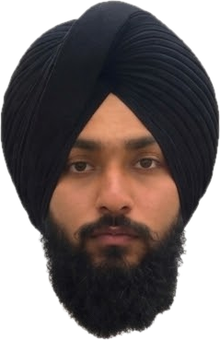
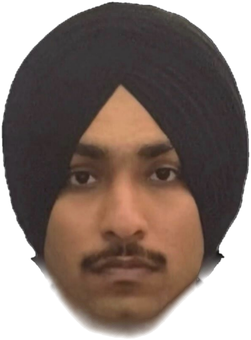
New face for friend 8, and new faces show on the first open
- Replace faces/enemy8.png with the new cut-out (black background removed,
  soft chin kept)
- On startup the game checks for a newer version and lets it take over
  before loading faces and voices, so changed pictures show on the first
  open instead of the second
- Version 3 (cache love-run-game-v3)

Claude-Session: https://claude.ai/code/session_01633TpBsW2xiVutsYYgJTvZ

diff --git a/docs/index.html b/docs/index.html
@@ -196,7 +196,7 @@ const MAX_DPR = 2;
 
 // Shown small in the top-right corner of the title screen. Raise it by 1 with every update,
 // together with CACHE in sw.js ('love-run-game-v' + the same number).
-const GAME_VERSION = 2;
+const GAME_VERSION = 3;
 
 /* ============================================================================
    2) LEVELS
@@ -670,15 +670,19 @@ function waitForServiceWorker(timeout) {
     const fin = (v) => { if (!done) { done = true; resolve(v); } };
     navigator.serviceWorker.addEventListener('controllerchange', () => fin(true));
     navigator.serviceWorker.register('sw.js', { updateViaCache: 'none' })
-      .then(() => { if (navigator.serviceWorker.controller) fin(true); })
+      .then(async (reg) => {
+        if (!navigator.serviceWorker.controller) return;       // very first visit: wait until it takes over
+        // If a new version was published since last time, let it take over first, so new faces and voices show right away.
+        try { await reg.update(); } catch (e) { /* offline */ }
+        if (!reg.installing && !reg.waiting) fin(true);         // otherwise controllerchange finishes this
+      })
       .catch(() => fin(false));
-    if (navigator.serviceWorker.controller) fin(true);
     setTimeout(() => fin(false), timeout);
   });
 }
 async function loadAllFaces() {
   // Wait (briefly) for the offline cache so missing optional photos don't spam 404s.
-  await waitForServiceWorker(2500);
+  await waitForServiceWorker(6000);
   const names = ['hero', 'me'];
   for (let i = 1; i <= MAX_ENEMY_FACES; i++) names.push('enemy' + i);
   names.push('dragon');
@@ -3084,11 +3088,11 @@ document.addEventListener('visibilitychange', () => { if (document.hidden) { cle
 
 // Updates: every time the app comes back to the screen, ask for a newer version. When one is installed
 // while the game is open, reload on the title screen (never in the middle of a level).
-let updateReady = false;
+let updateReady = false, booted = false;
 if ('serviceWorker' in navigator && /^https?:$/.test(location.protocol)) {
   const hadController = !!navigator.serviceWorker.controller;
   navigator.serviceWorker.addEventListener('controllerchange', () => {
-    if (!hadController) return;                        // first install, the page is already the newest
+    if (!hadController || !booted) return;             // first install or an update while starting: the page is already the newest
     updateReady = true;
     if (G.state === 'title') location.reload();
   });
@@ -3141,6 +3145,7 @@ loadAllFaces().catch(() => {}).then(() => {
   if (!faces.me) faces.me = buildFace(null, NAMES.me, '#4a6cf7');
   if (!faces.enemies.length) faces.enemies.push(buildFace(null, 'Bo', ENEMY_COLORS[0]));
   showTitle();
+  booted = true;
   loadVoices();
 });
 async function loadVoices() {
@@ -3165,7 +3170,7 @@ window.__loveRun = {
   eatCake: () => eatCake(G.player), eatPizza: () => eatPizza(G.player), eatBroccoli: () => eatBroccoli(G.player),
   hurtBoss: (n, notStomp) => damageBoss(n || 1, true, 0, !notStomp),
   eatShield: () => eatShield(G.player),
-  showTitle, get updateReady() { return updateReady; },
+  showTitle, faces, get updateReady() { return updateReady; },
   simulate(seconds, botFn, until) {
     const steps = Math.round(seconds / MAX_STEP);
     const stop = until || ((g) => g.state !== 'play' && g.state !== 'flag');

diff --git a/docs/sw.js b/docs/sw.js
@@ -2,7 +2,7 @@
    The game page itself is always loaded fresh from the internet when there is a connection
    (the saved copy is only used offline), so a new version shows up on the next open.
    With every update raise the number here and GAME_VERSION in index.html (same number). */
-const CACHE = 'love-run-game-v2';
+const CACHE = 'love-run-game-v3';
 const CORE = ['./', './index.html', './manifest.json', './icons/icon-192.png', './icons/icon-512.png', './icons/icon-maskable-512.png'];
 const FACE_NAMES = ['hero', 'me', 'dragon'];
 for (let i = 1; i <= 10; i++) FACE_NAMES.push('enemy' + i);

diff --git a/docs/README.md b/docs/README.md
@@ -201,7 +201,7 @@ Free GitHub Pages needs the repository to be **public**.
 2. Tap **⋮** → **Add to Home screen** (or **Install app**).
 3. Open it from the home screen. It starts fullscreen in landscape and works without internet after the first launch.
 
-**Updating:** when there's internet, the game always loads its newest version. If the app was left open in the background, it checks for an update when it comes back to the screen and reloads itself on the title screen (never in the middle of a level). The title screen shows **Version N** in small text in the top-right corner, so you can see which version a phone is running. With every change, raise both `GAME_VERSION` in `index.html` and the number in `CACHE = 'love-run-game-v…'` in `sw.js` to the next number (they're both 2 now). GitHub Pages can take a minute or two to publish a change.
+**Updating:** when there's internet, the game always loads its newest version. If the app was left open in the background, it checks for an update when it comes back to the screen and reloads itself on the title screen (never in the middle of a level). The title screen shows **Version N** in small text in the top-right corner, so you can see which version a phone is running. With every change, raise both `GAME_VERSION` in `index.html` and the number in `CACHE = 'love-run-game-v…'` in `sw.js` to the next number (they're both 3 now). GitHub Pages can take a minute or two to publish a change.
 
 Phones that had a version from before the automatic updates show the old game one more time: open it, wait a few seconds, close it completely (swipe it away from recent apps) and open it again.
 
